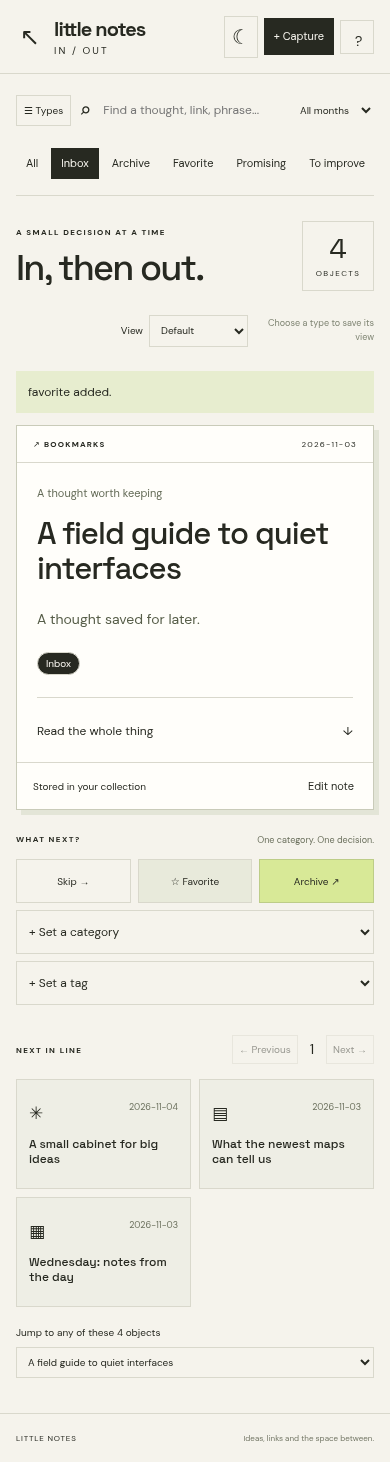
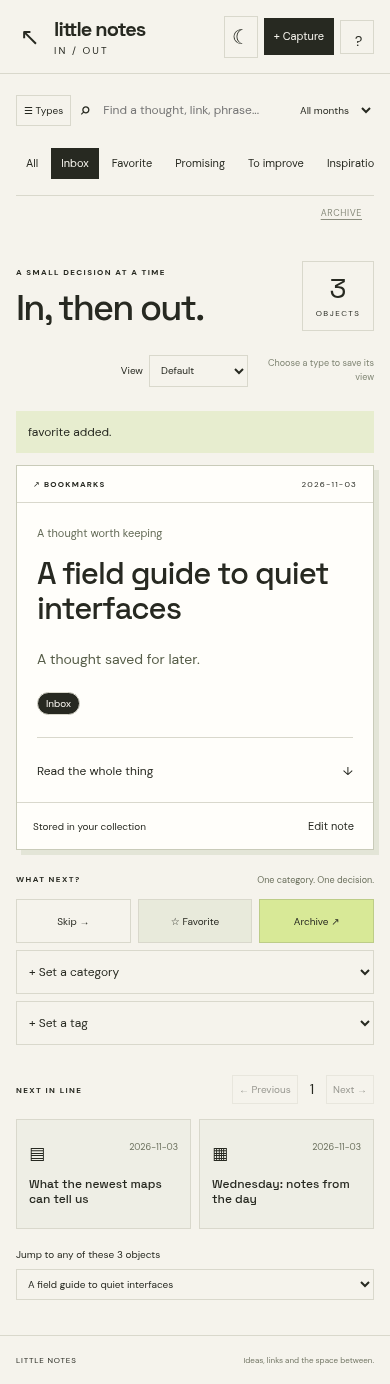
little notes: choosing a category clears Inbox; smaller Archive below tabs (#374)
* little notes: choosing a category takes the object out of the Inbox

The assign endpoint now treats any category choice as the triage decision
("I have read it"): the object leaves the Inbox while keeping its other
categories and topic tags. Choosing Inbox itself still only clears Archive,
and removing a category never restores the Inbox. Archive/Inbox stay
mutually exclusive as before. No model or schema change.

* little notes: Archive becomes a small control above the category tabs

Archive is a destination, not a triage lane: it leaves the scrollable tab
row (which keeps the room for real categories) and becomes a small
underlined control above it, with the same filtering behavior and a
44px-tall tap target on mobile. The visual check now also covers
categorizing out of the Inbox; refreshed mobile screenshots included.

* little notes: make Archive smaller and place it below the tabs

---------

diff --git a/ui/src/apps/little-notes/little-notes.css b/ui/src/apps/little-notes/little-notes.css
@@ -1,5 +1,5 @@
 @import url('https://fonts.googleapis.com/css2?family=DM+Sans:wght@400;500;600;700&family=Space+Grotesk:wght@400;500;600;700&display=swap');
-.ln-app{--paper:#f5f3ec;--ink:#272921;--line:#d9d8cc;--green:#d8e997;min-height:100vh;background:var(--paper);color:var(--ink);font:14px/1.5 'DM Sans',sans-serif}.ln-app *{box-sizing:border-box}.ln-app button,.ln-app input,.ln-app select,.ln-app textarea{font:inherit;color:inherit}.ln-app button,.ln-app a,.ln-app select{touch-action:manipulation}.ln-app button{cursor:pointer;border:1px solid var(--line);background:transparent;border-radius:0;padding:10px 14px}.ln-app button:hover{background:#e8eadb}.ln-app button:disabled{cursor:wait;opacity:.45}.ln-app :focus-visible{outline:3px solid #55782b;outline-offset:3px}.ln-app a{color:inherit}.ln-header{height:92px;display:flex;align-items:center;gap:18px;border-bottom:1px solid var(--line);padding:0 36px}.ln-home{font-size:24px!important;border:0!important;padding:4px!important}.ln-brand{font:bold 25px 'Space Grotesk',sans-serif;letter-spacing:-1px}.ln-brand span{font:10px 'DM Sans',sans-serif;letter-spacing:2px;display:block;margin-top:2px}.ln-header-actions{display:flex;align-items:center;gap:16px;margin-left:auto}.ln-header-actions>button{background:var(--ink);color:var(--paper);border-color:var(--ink)}.ln-workspace{display:grid;grid-template-columns:210px minmax(0,1fr);max-width:1600px;margin:auto}.ln-sidebar{border-right:1px solid var(--line);padding:38px 22px;display:flex;flex-direction:column;gap:8px}.ln-eyebrow{font-size:10px;font-weight:700;letter-spacing:1.8px;margin:0 0 16px}.ln-sidebar>button{border:0;display:flex;align-items:center;gap:12px;text-align:left;padding:12px}.ln-sidebar>button.active{background:var(--green)}.ln-sidebar-foot{margin-top:150px;font-size:10px;line-height:1.7}.ln-sidebar-foot strong{font-family:'Space Grotesk',sans-serif;letter-spacing:.7px}.ln-sidebar-foot p{color:#6b6e60}.ln-main{min-width:0;padding:30px 44px 60px;max-width:1280px}.ln-toolbar{display:flex;align-items:center;gap:18px}.ln-search{display:flex;align-items:center;gap:12px;flex:1}.ln-search>span{font-size:26px}.ln-search input{border:0;background:transparent;width:100%;padding:10px 0;outline-offset:1px!important}.ln-toolbar select{background:transparent;border:0;max-width:160px;font-size:12px}.ln-tabs{display:flex;gap:3px;overflow:auto;padding:18px 0 20px;border-bottom:1px solid var(--line);scrollbar-width:thin}.ln-tabs button{white-space:nowrap;border:0;font-size:12px;padding:8px 12px}.ln-tabs button.active{background:var(--ink);color:var(--paper)}.ln-tabs select{max-width:140px;background:transparent;border:0;font-size:12px}.ln-heading{display:flex;justify-content:space-between;align-items:center;padding:32px 0 24px}.ln-heading h1{font:500 clamp(32px,4vw,55px)/1 'Space Grotesk',sans-serif;letter-spacing:-2.2px;margin:0;overflow-wrap:anywhere}.ln-heading .ln-eyebrow{margin-bottom:12px}.ln-count{font:36px/1 'Space Grotesk',sans-serif;border:1px solid var(--line);padding:15px;min-width:94px;text-align:center}.ln-count small{display:block;font:9px 'DM Sans',sans-serif;text-transform:uppercase;letter-spacing:1.5px;margin-top:6px}.ln-stage{background:#fffefa;border:1px solid #c9cbb9;box-shadow:5px 5px 0 #e3e5d7}.ln-card-top{display:flex;justify-content:space-between;gap:16px;padding:14px 26px;border-bottom:1px solid var(--line);font-size:10px;text-transform:uppercase;letter-spacing:1.2px}.ln-card-top>span:first-child{font-weight:700}.ln-card-body{padding:32px 38px 18px;max-width:900px}.ln-kicker{font:12px 'DM Sans',sans-serif;color:#646b57;margin:0 0 16px}.ln-card-body h2{font:500 clamp(29px,3.4vw,48px)/1.13 'Space Grotesk',sans-serif;letter-spacing:-1.7px;margin:0 0 22px;overflow-wrap:anywhere}.ln-summary{font-size:17px;line-height:1.6;max-width:740px;color:#575e49}.ln-card-tags{display:flex;gap:6px;flex-wrap:wrap;margin:22px 0}.ln-card-tags button{font-size:10px;padding:3px 8px;border-radius:20px;background:#eff1e7}
+.ln-app{--paper:#f5f3ec;--ink:#272921;--line:#d9d8cc;--green:#d8e997;min-height:100vh;background:var(--paper);color:var(--ink);font:14px/1.5 'DM Sans',sans-serif}.ln-app *{box-sizing:border-box}.ln-app button,.ln-app input,.ln-app select,.ln-app textarea{font:inherit;color:inherit}.ln-app button,.ln-app a,.ln-app select{touch-action:manipulation}.ln-app button{cursor:pointer;border:1px solid var(--line);background:transparent;border-radius:0;padding:10px 14px}.ln-app button:hover{background:#e8eadb}.ln-app button:disabled{cursor:wait;opacity:.45}.ln-app :focus-visible{outline:3px solid #55782b;outline-offset:3px}.ln-app a{color:inherit}.ln-header{height:92px;display:flex;align-items:center;gap:18px;border-bottom:1px solid var(--line);padding:0 36px}.ln-home{font-size:24px!important;border:0!important;padding:4px!important}.ln-brand{font:bold 25px 'Space Grotesk',sans-serif;letter-spacing:-1px}.ln-brand span{font:10px 'DM Sans',sans-serif;letter-spacing:2px;display:block;margin-top:2px}.ln-header-actions{display:flex;align-items:center;gap:16px;margin-left:auto}.ln-header-actions>button{background:var(--ink);color:var(--paper);border-color:var(--ink)}.ln-workspace{display:grid;grid-template-columns:210px minmax(0,1fr);max-width:1600px;margin:auto}.ln-sidebar{border-right:1px solid var(--line);padding:38px 22px;display:flex;flex-direction:column;gap:8px}.ln-eyebrow{font-size:10px;font-weight:700;letter-spacing:1.8px;margin:0 0 16px}.ln-sidebar>button{border:0;display:flex;align-items:center;gap:12px;text-align:left;padding:12px}.ln-sidebar>button.active{background:var(--green)}.ln-sidebar-foot{margin-top:150px;font-size:10px;line-height:1.7}.ln-sidebar-foot strong{font-family:'Space Grotesk',sans-serif;letter-spacing:.7px}.ln-sidebar-foot p{color:#6b6e60}.ln-main{min-width:0;padding:30px 44px 60px;max-width:1280px}.ln-toolbar{display:flex;align-items:center;gap:18px}.ln-search{display:flex;align-items:center;gap:12px;flex:1}.ln-search>span{font-size:26px}.ln-search input{border:0;background:transparent;width:100%;padding:10px 0;outline-offset:1px!important}.ln-toolbar select{background:transparent;border:0;max-width:160px;font-size:12px}.ln-archive-row{display:flex;justify-content:flex-end;margin:0}.ln-archive-row button{border:0;font-size:9px;letter-spacing:.6px;text-transform:uppercase;color:#8a8d7e;padding:6px 12px 10px;min-height:40px;text-decoration:underline;text-underline-offset:3px}.ln-archive-row button.active{color:var(--ink);font-weight:700}.ln-theme-dark .ln-archive-row button{color:#b2bda7}.ln-theme-dark .ln-archive-row button.active{color:#e6e9df}.ln-tabs{display:flex;gap:3px;overflow:auto;padding:18px 0 20px;border-bottom:1px solid var(--line);scrollbar-width:thin}.ln-tabs button{white-space:nowrap;border:0;font-size:12px;padding:8px 12px}.ln-tabs button.active{background:var(--ink);color:var(--paper)}.ln-tabs select{max-width:140px;background:transparent;border:0;font-size:12px}.ln-heading{display:flex;justify-content:space-between;align-items:center;padding:32px 0 24px}.ln-heading h1{font:500 clamp(32px,4vw,55px)/1 'Space Grotesk',sans-serif;letter-spacing:-2.2px;margin:0;overflow-wrap:anywhere}.ln-heading .ln-eyebrow{margin-bottom:12px}.ln-count{font:36px/1 'Space Grotesk',sans-serif;border:1px solid var(--line);padding:15px;min-width:94px;text-align:center}.ln-count small{display:block;font:9px 'DM Sans',sans-serif;text-transform:uppercase;letter-spacing:1.5px;margin-top:6px}.ln-stage{background:#fffefa;border:1px solid #c9cbb9;box-shadow:5px 5px 0 #e3e5d7}.ln-card-top{display:flex;justify-content:space-between;gap:16px;padding:14px 26px;border-bottom:1px solid var(--line);font-size:10px;text-transform:uppercase;letter-spacing:1.2px}.ln-card-top>span:first-child{font-weight:700}.ln-card-body{padding:32px 38px 18px;max-width:900px}.ln-kicker{font:12px 'DM Sans',sans-serif;color:#646b57;margin:0 0 16px}.ln-card-body h2{font:500 clamp(29px,3.4vw,48px)/1.13 'Space Grotesk',sans-serif;letter-spacing:-1.7px;margin:0 0 22px;overflow-wrap:anywhere}.ln-summary{font-size:17px;line-height:1.6;max-width:740px;color:#575e49}.ln-card-tags{display:flex;gap:6px;flex-wrap:wrap;margin:22px 0}.ln-card-tags button{font-size:10px;padding:3px 8px;border-radius:20px;background:#eff1e7}
 .ln-card-tags button.ln-chip-category{background:var(--ink);color:var(--paper)}.ln-card-body details{border-top:1px solid var(--line);padding-top:16px}.ln-card-body summary{cursor:pointer;font-size:12px;list-style:none;padding:8px 0}.ln-card-body summary span{float:right}.ln-markdown{overflow-wrap:anywhere;line-height:1.75;padding-top:18px;font-size:14px}.ln-markdown img{max-width:100%}.ln-markdown table{display:block;overflow:auto;border-collapse:collapse;font-size:12px}.ln-markdown th,.ln-markdown td{border:1px solid var(--line);padding:8px}.ln-markdown pre{overflow:auto;background:#eeeee6;padding:15px}.ln-image{display:block;max-width:100%;max-height:260px;object-fit:contain;margin:22px 0}.ln-card-footer{display:flex;justify-content:space-between;align-items:center;padding:14px 26px;border-top:1px solid var(--line);font-size:11px}.ln-card-footer button{font-size:11px;border:0;padding:3px}.ln-decision{display:flex;align-items:center;gap:8px;margin:28px 0 36px}.ln-decision>div{margin-right:auto}.ln-decision .ln-eyebrow{margin:0 0 3px}.ln-decision>div>span{font-size:11px;color:#6d725f}.ln-decision>button{font-size:12px;min-height:46px}.ln-decision .ln-archive{background:var(--green);border-color:#bdcd88}.ln-quick-tag select{width:100%;padding:12px 8px;background:transparent;border:1px solid var(--line);max-width:150px;font-size:11px;min-height:46px}.ln-queue-title{display:flex;justify-content:space-between;align-items:center;gap:10px}.ln-queue-title .ln-eyebrow{margin:0}.ln-queue-title>div{display:flex;align-items:center;gap:12px}.ln-queue-title button{font-size:10px;padding:6px}.ln-queue-cards{display:grid;grid-template-columns:repeat(3,minmax(0,1fr));gap:10px;margin-top:15px}.ln-queue-cards>button{text-align:left;min-height:115px;padding:15px;background:#eeeee5}.ln-queue-cards>button>span{display:flex;justify-content:space-between;font-size:17px;margin-bottom:10px}.ln-queue-cards small{font-size:9px;color:#6d725f}.ln-queue-cards strong{font:500 13px/1.3 'Space Grotesk',sans-serif;display:block;overflow-wrap:anywhere}.ln-jump{display:flex;gap:12px;align-items:center;font-size:10px;margin-top:18px}.ln-jump select{background:transparent;border:1px solid var(--line);padding:7px;max-width:55%}.ln-footer{border-top:1px solid var(--line);display:flex;justify-content:space-between;gap:16px;padding:20px 36px;font-size:9px;letter-spacing:1.4px}.ln-footer span{color:#737766;letter-spacing:0}.ln-empty{text-align:center;min-height:330px;border:1px dashed var(--line);display:flex;flex-direction:column;align-items:center;justify-content:center;padding:30px}.ln-empty>span{font-size:48px}.ln-empty h2{font:500 28px 'Space Grotesk',sans-serif}.ln-empty p{font-size:13px;max-width:320px;color:#6d725f}.ln-error{padding:14px;background:#f9e6df;border:1px solid #d9aaa0;overflow-wrap:anywhere}.ln-notice{font-size:12px;background:#e7edcf;padding:12px}.ln-filter-button,.ln-close{display:none!important}.ln-modal-backdrop{position:fixed;inset:0;background:#24291da8;display:flex;justify-content:center;align-items:center;z-index:100;padding:20px}.ln-modal{background:var(--paper);padding:28px;width:min(100%,620px);max-height:92dvh;overflow:auto;border:1px solid #777e61}.ln-modal-head{display:flex;align-items:center;justify-content:space-between;gap:15px}.ln-modal-head h2{font:500 28px 'Space Grotesk',sans-serif;margin:0 0 16px}.ln-modal-head button{border:0;font-size:24px}.ln-modal label{display:block;font-size:11px;font-weight:700;margin-bottom:14px}.ln-modal input,.ln-modal textarea,.ln-modal select{display:block;width:100%;padding:10px;margin-top:5px;border:1px solid #c5c9b8;background:#fffefa}.ln-save{width:100%;background:var(--ink)!important;color:var(--paper)!important}.ln-signin{padding:80px max(24px,8vw);min-height:70vh}.ln-signin h1{font:500 clamp(50px,8vw,100px)/1 'Space Grotesk',sans-serif;letter-spacing:-4px;margin:0 0 30px}.ln-signin p{max-width:400px}.ln-signin a{display:inline-block;margin-top:20px;padding:12px 20px;background:var(--green)}.sr-only{position:absolute;width:1px;height:1px;padding:0;margin:-1px;overflow:hidden;clip:rect(0,0,0,0);white-space:nowrap;border:0}
 @media(min-width:1500px){.ln-main{padding-left:70px;padding-right:70px}}@media(max-width:1000px){.ln-main{padding:25px}.ln-workspace{grid-template-columns:175px minmax(0,1fr)}.ln-sidebar{padding:30px 12px}.ln-decision{flex-wrap:wrap}.ln-decision>div{width:100%;margin-bottom:4px}.ln-decision>button{flex:1}.ln-card-body{padding:26px}.ln-quick-tag{flex:1}.ln-quick-tag select{max-width:none}.ln-queue-cards{grid-template-columns:repeat(2,minmax(0,1fr))}}@media(max-width:650px){.ln-header{height:74px;padding:0 16px;gap:10px}.ln-brand{font-size:22px}.ln-header-actions{gap:9px}.ln-header-actions>button{font-size:11px;padding:9px}.ln-workspace{display:block}.ln-sidebar{display:none}.ln-sidebar.is-open{display:flex;position:fixed;left:0;top:0;bottom:0;width:240px;background:var(--paper);z-index:110;box-shadow:0 0 0 100vw #2228;padding:20px}.ln-close{display:block!important}.ln-sidebar-foot{margin-top:auto}.ln-main{padding:17px 16px 35px}.ln-toolbar{gap:8px;flex-wrap:wrap}.ln-filter-button{display:block!important;font-size:10px!important;padding:7px!important}.ln-search{min-width:150px}.ln-search input{font-size:12px}.ln-search>span{font-size:20px}.ln-toolbar select{font-size:10px;max-width:140px;margin-left:auto}.ln-tabs{margin-top:7px;padding:12px 0 16px}.ln-tabs button{font-size:11px;padding:7px 10px}.ln-heading{padding:25px 0 20px;gap:12px}.ln-heading h1{font-size:36px;letter-spacing:-1.8px}.ln-eyebrow{font-size:8px;letter-spacing:1.4px}.ln-count{font-size:28px;min-width:72px;padding:12px}.ln-count small{font-size:8px}.ln-card-top{padding:12px 16px;font-size:8px}.ln-card-body{padding:23px 20px 14px}.ln-card-body h2{font-size:31px;letter-spacing:-1px}.ln-kicker{font-size:11px}.ln-summary{font-size:14px}.ln-card-footer{padding:12px 16px;font-size:10px}.ln-decision{gap:7px;margin:23px 0 30px}.ln-decision>div{display:flex;align-items:center;justify-content:space-between}.ln-decision>div>span{font-size:9px}.ln-decision>button{font-size:10px;padding:9px 7px;min-height:44px}.ln-quick-tag{flex-basis:100%;}.ln-quick-tag select{min-height:42px;font-size:12px}.ln-queue-cards{gap:8px}.ln-queue-cards>button{padding:12px;min-height:110px}.ln-queue-cards strong{font-size:12px}.ln-jump{display:block}.ln-jump select{display:block;max-width:100%;width:100%;margin-top:7px}.ln-footer{padding:18px 16px;font-size:8px;letter-spacing:.8px}.ln-footer span{font-size:8px}.ln-modal-backdrop{padding:10px}.ln-modal{padding:20px;max-height:96dvh}.ln-modal-head h2{font-size:25px}}
 

diff --git a/ui/src/apps/little-notes/LittleNotes.jsx b/ui/src/apps/little-notes/LittleNotes.jsx
@@ -99,6 +99,10 @@ export default function LittleNotes({ onHome }) {
   }, [signedIn, type, category, tag, month, q, page, refresh, view, routeItem]);
   function filter(setter, value) { setRoute(old => ({ ...old, item: "" })); setter(value); setPage(1); setDrawer(false); setNotice(""); }
   const visibleCategories = taxonomy.categories.filter(c => !type || !c.types.length || c.types.includes(type));
+  // Archive is a destination, not a triage lane: it stays available as a small
+  // control below the tabs so the tab row keeps room for real categories.
+  const archiveCategory = visibleCategories.find(c => c.slug === "archive");
+  const tabCategories = visibleCategories.filter(c => c.slug !== "archive");
   function chooseType(value) {
     viewRequest.current++; setSavingView(false); setViewSaved(true); setDetailOpen(false);
     const nextView = viewCache.current[value] || "default";
@@ -118,15 +122,14 @@ export default function LittleNotes({ onHome }) {
   }, [signedIn, routeItem, refresh]);
   async function toggle(path, key, slug, enabled = true) {
     if (!selected || busy) return; setBusy(true); setError("");
-    // Archive and Inbox are mutually exclusive in the API, so archiving from the
-    // Inbox view (or restoring from the Archive view) removes the object from the
-    // current list. Route to the next object in line instead of reloading the one
-    // that just left: skip() stores the object in the URL, and without this the
-    // detail effect reopens the archived object after the list refreshes.
-    // Categorizing from the Inbox (Favorite, Promising, ...) keeps the object in
-    // the Inbox: only Archive is exclusive with it. The decision is still made, so
-    // show the next object; the categorized one stays in the list and its
-    // membership is not changed here.
+    // In the API, Inbox and Archive are mutually exclusive, and choosing any
+    // other category also takes the object out of the Inbox (the decision means
+    // it has been read; other categories stay). So archiving from the Inbox
+    // view, restoring from the Archive view, or categorizing from the Inbox all
+    // remove the object from the current list. Route to the next object in line
+    // instead of reloading the one that just left: skip() stores the object in
+    // the URL, and without this the detail effect reopens it after the list
+    // refreshes.
     const categorized = path === "categories" && enabled && category === "inbox" && !["archive", "inbox"].includes(slug);
     const leaving = categorized || (slug === "archive" && enabled && category === "inbox") || (slug === "inbox" && enabled && category === "archive");
     let nextId = "";
@@ -189,7 +192,8 @@ export default function LittleNotes({ onHome }) {
       {admin && taxonomy.can_manage_taxonomy ? <TaxonomyAdmin key={route.adminKind} initialKind={route.adminKind} onKindChange={value => setRoute(old => ({ ...old, adminKind: value }))} taxonomy={taxonomy} api={api} onCreated={() => setRefresh(x => x + 1)} onClose={() => setAdmin(false)} /> : <div className="ln-workspace">
         <aside className={`ln-sidebar ${drawer ? "is-open" : ""}`} aria-label="Object type filters"><button className="ln-close" onClick={() => setDrawer(false)}>Close filters ×</button><p className="ln-eyebrow">YOUR OBJECTS</p><button className={!type ? "active" : ""} onClick={() => chooseType("")}>◉ <span>Everything</span></button>{taxonomy.types.map(t => <button key={t.slug} className={type === t.slug ? "active" : ""} onClick={() => chooseType(t.slug)}>{t.icon || icons[t.slug] || "◇"}<span>{t.name}</span></button>)}<div className="ln-sidebar-foot"><strong>KEEP THE THOUGHT.<br />CLEAR THE INBOX.</strong><p>No folders to maintain.<br />Just types, dates and categories.</p></div>{taxonomy.can_manage_taxonomy && <button className="ln-manage-button" onClick={() => { setDrawer(false); setAdmin(true); }}><span aria-hidden="true">⚙</span> Manage</button>}</aside>
         <main className="ln-main"><div className="ln-toolbar"><button className="ln-filter-button" onClick={() => setDrawer(true)}>☰ Types</button><label className="ln-search"><span>⌕</span><input type="search" placeholder="Find a thought, link, phrase..." value={q} onChange={e => filter(setQ, e.target.value)} aria-label="Search content" /></label><select value={month} onChange={e => filter(setMonth, e.target.value)} aria-label="Browse by saved month">{view !== "calendar" && <option value="">All months</option>}{month && !taxonomy.months.some(m => m.month === month) && <option value={month}>{month}</option>}{taxonomy.months.map(m => <option key={m.month} value={m.month}>{m.month} · {m.count}</option>)}</select></div>
-          <nav className="ln-tabs" aria-label="Category filters"><button className={!category ? "active" : ""} onClick={() => filter(setCategory, "")}>All</button>{visibleCategories.map(c => <button key={c.slug} className={category === c.slug ? "active" : ""} onClick={() => filter(setCategory, c.slug)}>{c.name}</button>)}<select aria-label="Topic tag filter" value={tag} onChange={e => filter(setTag, e.target.value)}><option value="">More tags</option>{taxonomy.tags.map(t => <option key={t.slug} value={t.slug}>{t.name}</option>)}</select></nav>
+          <nav className="ln-tabs" aria-label="Category filters"><button className={!category ? "active" : ""} onClick={() => filter(setCategory, "")}>All</button>{tabCategories.map(c => <button key={c.slug} className={category === c.slug ? "active" : ""} onClick={() => filter(setCategory, c.slug)}>{c.name}</button>)}<select aria-label="Topic tag filter" value={tag} onChange={e => filter(setTag, e.target.value)}><option value="">More tags</option>{taxonomy.tags.map(t => <option key={t.slug} value={t.slug}>{t.name}</option>)}</select></nav>
+          {archiveCategory && <div className="ln-archive-row"><button className={category === "archive" ? "active" : ""} aria-pressed={category === "archive"} onClick={() => filter(setCategory, "archive")}>Archive</button></div>}
           <div className="ln-heading"><div><p className="ln-eyebrow">A SMALL DECISION AT A TIME</p><h1>{category === "inbox" ? "In, then out." : category ? visibleCategories.find(c => c.slug === category)?.name || category : tag ? `#${tag}` : "Everything, kept."}</h1></div><span className="ln-count">{total} <small>objects</small></span></div>
           <ViewPicker value={view} onChange={changeView} disabled={savingView} saving={savingView} saved={viewSaved} typeName={type ? taxonomy.types.find(t => t.slug === type)?.name || type : ""} />
           {error && <div className="ln-error" role="alert">{error} <button onClick={() => setRefresh(x => x + 1)}>Reload</button></div>}{notice && <p className="ln-notice" role="status">{notice}</p>}

diff --git a/api/apps/curator/tests_api.py b/api/apps/curator/tests_api.py
@@ -3,7 +3,7 @@ from unittest.mock import patch
 
 from django.contrib.auth import get_user_model
 from django.test import TestCase, override_settings
-from .models import Category, Content, ContentCategory, ObjectType
+from .models import Category, Content, ContentCategory, ContentTag, ObjectType, Tag
 
 
 @override_settings(ROOT_URLCONF="apps.curator.urls", SECRET_KEY="test-long-enough-secret-key-curator-123456789", AUTH_JWT_TTL_SECONDS=3600)
@@ -32,6 +32,28 @@ class CuratorAPITests(TestCase):
         self.assertEqual(response.status_code, 200)
         self.assertEqual(set(self.item.categories.values_list('slug', flat=True)), {'archive'})
         self.assertEqual(self.send(f'/content/{self.item.pk}/categories/', {'category': 'favorite', 'enabled': True, 'updated_at': value}).status_code, 409)
+
+    def test_choosing_a_category_clears_inbox_keeps_lanes_and_tags(self):
+        for slug in ["inbox", "favorite"]:
+            ContentCategory.objects.create(content=self.item, category=Category.objects.get(slug=slug))
+        tag = Tag.objects.create(slug="topic-hiking", name="Hiking")
+        ContentTag.objects.create(content=self.item, tag=tag)
+        value = self.item.updated_at.isoformat()
+        response = self.send(f'/content/{self.item.pk}/categories/', {'category': 'promising', 'enabled': True, 'updated_at': value})
+        self.assertEqual(response.status_code, 200)
+        self.assertEqual(set(self.item.categories.values_list('slug', flat=True)), {'favorite', 'promising'})
+        self.assertEqual([t['slug'] for t in response.json()['tags']], ['topic-hiking'])
+        self.assertEqual(self.client.get('/content/?category=inbox', **self.headers).json()['total'], 0)
+        self.assertEqual(self.client.get('/content/?category=promising', **self.headers).json()['total'], 1)
+        # Removing a category never restores the Inbox.
+        removed = self.send(f'/content/{self.item.pk}/categories/', {'category': 'promising', 'enabled': False, 'updated_at': response.json()['updated_at']})
+        self.assertEqual(removed.status_code, 200)
+        self.assertEqual(set(self.item.categories.values_list('slug', flat=True)), {'favorite'})
+        # Choosing Inbox itself only clears Archive; other categories stay.
+        ContentCategory.objects.create(content=self.item, category=Category.objects.get(slug="archive"))
+        restored = self.send(f'/content/{self.item.pk}/categories/', {'category': 'inbox', 'enabled': True, 'updated_at': removed.json()['updated_at']})
+        self.assertEqual(restored.status_code, 200)
+        self.assertEqual(set(self.item.categories.values_list('slug', flat=True)), {'inbox', 'favorite'})
 
     def test_type_linked_categories_only_apply_to_their_types(self):
         value = self.item.updated_at.isoformat()

diff --git a/api/apps/curator/views.py b/api/apps/curator/views.py
@@ -216,9 +216,15 @@ def assign_category(request, content_id):
             if category.object_types.exists() and not category.object_types.filter(pk=content.object_type_id).exists():
                 raise ValueError("This category does not apply to this object type.")
             if enabled:
-                if slug in {"archive", "inbox"}:
-                    ContentCategory.objects.filter(
-                        content=content, category__slug="inbox" if slug == "archive" else "archive").delete()
+                # Choosing a category is the triage decision ("I have read it"):
+                # any category other than Inbox takes the object out of the
+                # Inbox while keeping its other categories. Inbox and Archive
+                # stay mutually exclusive; removing a category never restores
+                # the Inbox, and topic tags are a separate axis, never touched.
+                if slug == "inbox":
+                    ContentCategory.objects.filter(content=content, category__slug="archive").delete()
+                else:
+                    ContentCategory.objects.filter(content=content, category__slug="inbox").delete()
                 ContentCategory.objects.get_or_create(content=content, category=category)
             else:
                 ContentCategory.objects.filter(content=content, category=category).delete()

diff --git a/ui/src/apps/little-notes/README.md b/ui/src/apps/little-notes/README.md
@@ -5,7 +5,9 @@ API, not Notion or GitHub in the browser. The interface keeps one object on stag
 a next-up queue, object-type sidebar (drawer on phone), horizontally scrollable
 category tabs that follow the selected object type (Promising/To improve only on
 Ideas, Inspiration only on Bookmarks), topic tags behind "More tags", month
-selector, search and 30-object pagination. Any object on the page can
+selector, search and 30-object pagination. Archive is deliberately less
+prominent: a small control below the tabs instead of a tab, so real categories
+keep the room. Any object on the page can
 be selected with the jump control, not only the six preview cards.
 
 Actions: capture Ideas/Bookmarks/News/Videos/Work ideas/Daily notes into the Inbox category, read
@@ -13,9 +15,10 @@ sanitized markdown, open a validated external URL, edit with conflict detection,
 favorite, assign/remove one category (type-linked categories refused for other
 types) or one topic tag, archive or restore. Skip changes no data. Archiving
 from the Inbox (or restoring from the Archive view) moves the stage to the next
-object in line. Adding a category (Favorite, Promising, ...) from the Inbox view
-also moves the stage to the next object, but the object stays in the Inbox:
-only Archive removes it. No projects,
+object in line. Choosing any category (Favorite, Promising, ...) means the
+object has been read: it leaves the Inbox, keeps its other categories and topic
+tags, and the stage moves to the next object. Choosing Inbox itself only clears
+Archive, and removing a category never restores the Inbox. No projects,
 issues or lists. In the cards view each card carries the same archive/restore
 and category actions, and opening an object from the cards, table or database
 view scrolls the detail into view. Type/category/tag administration writes are
@@ -29,7 +32,8 @@ from making the app available; current RL remains Notion until confirmed ready.
 Checks: `npm test`, `npm run build`; `node curator-visual-check.mjs` uses Chrome at
 `/usr/bin/google-chrome` and mocked nonprivate records, writes screenshots to
 `/tmp/little-notes-screenshots` or CURATOR_SCREENSHOTS. It exercises 320/390/1280,
-no-overflow, type-linked category tabs (Ideas vs Bookmarks), type drawer,
+no-overflow, type-linked category tabs (Ideas vs Bookmarks), Archive as the
+small below-tabs control (never a tab), type drawer,
 capture/Escape, search/empty/reset, archive and skip/archive/restore triage
-advance.
+advance, and categorizing out of the Inbox.
 This is not a claim of actual Android Firefox device testing.
